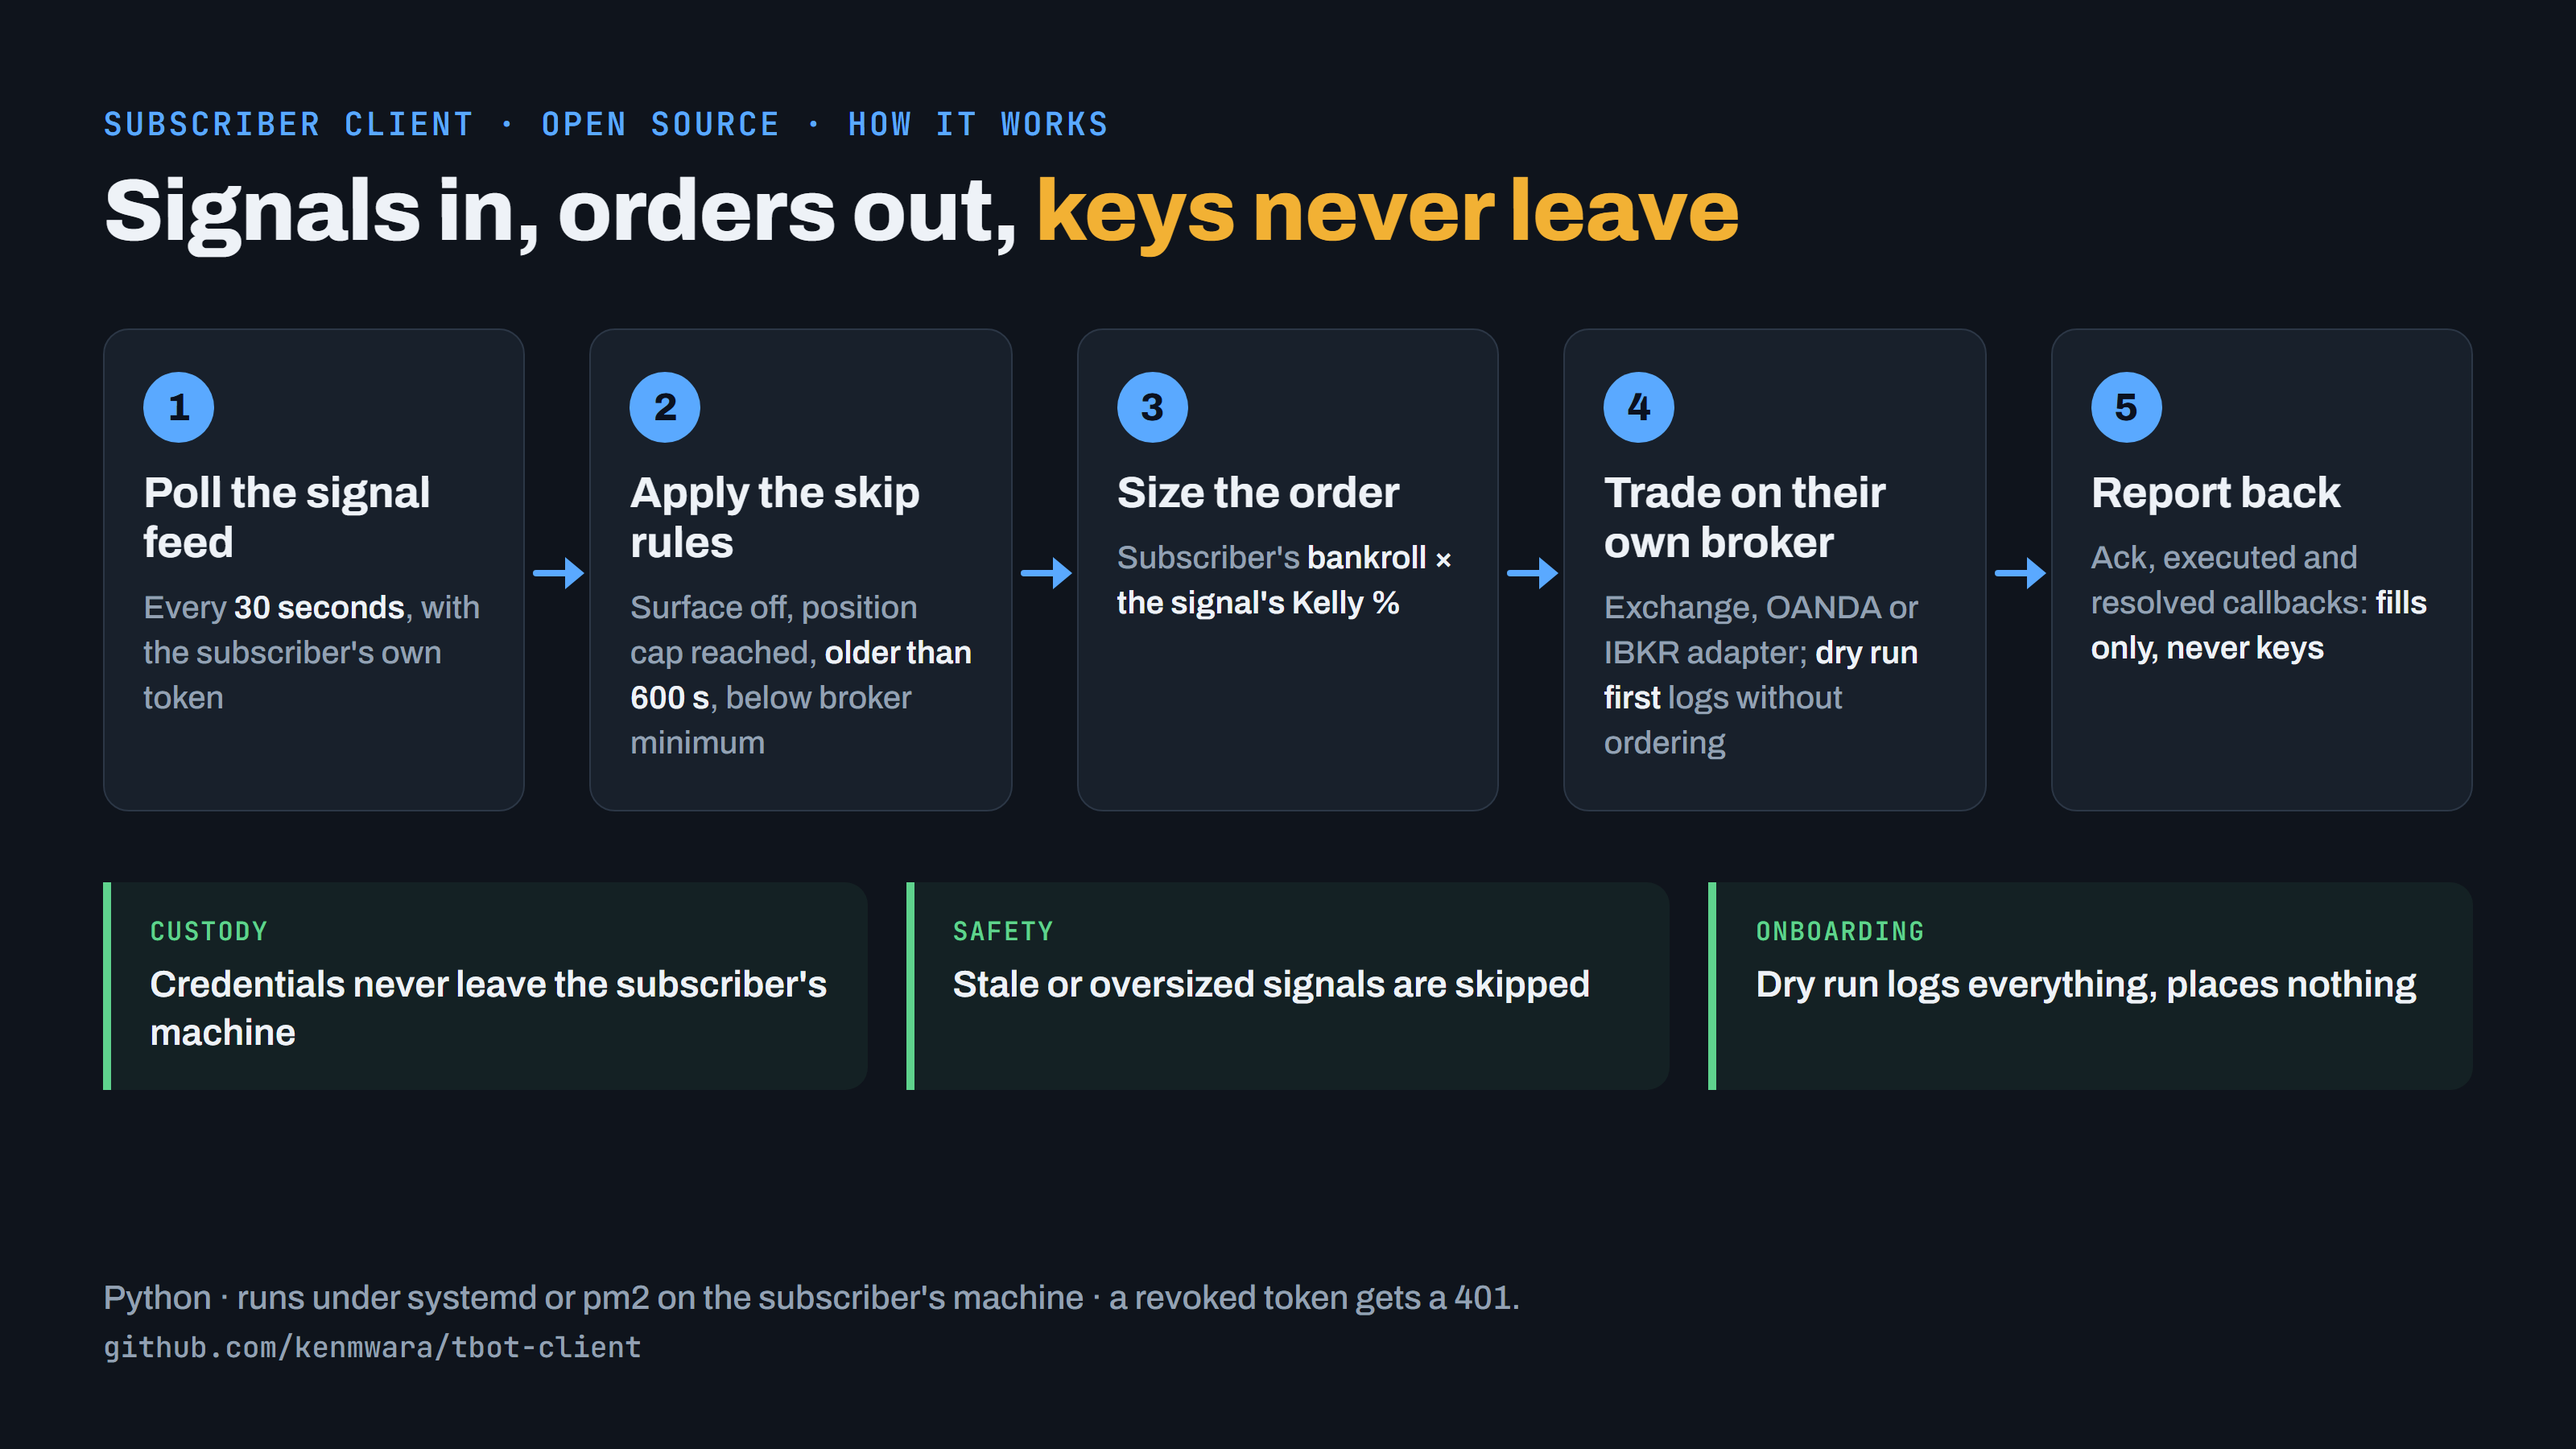
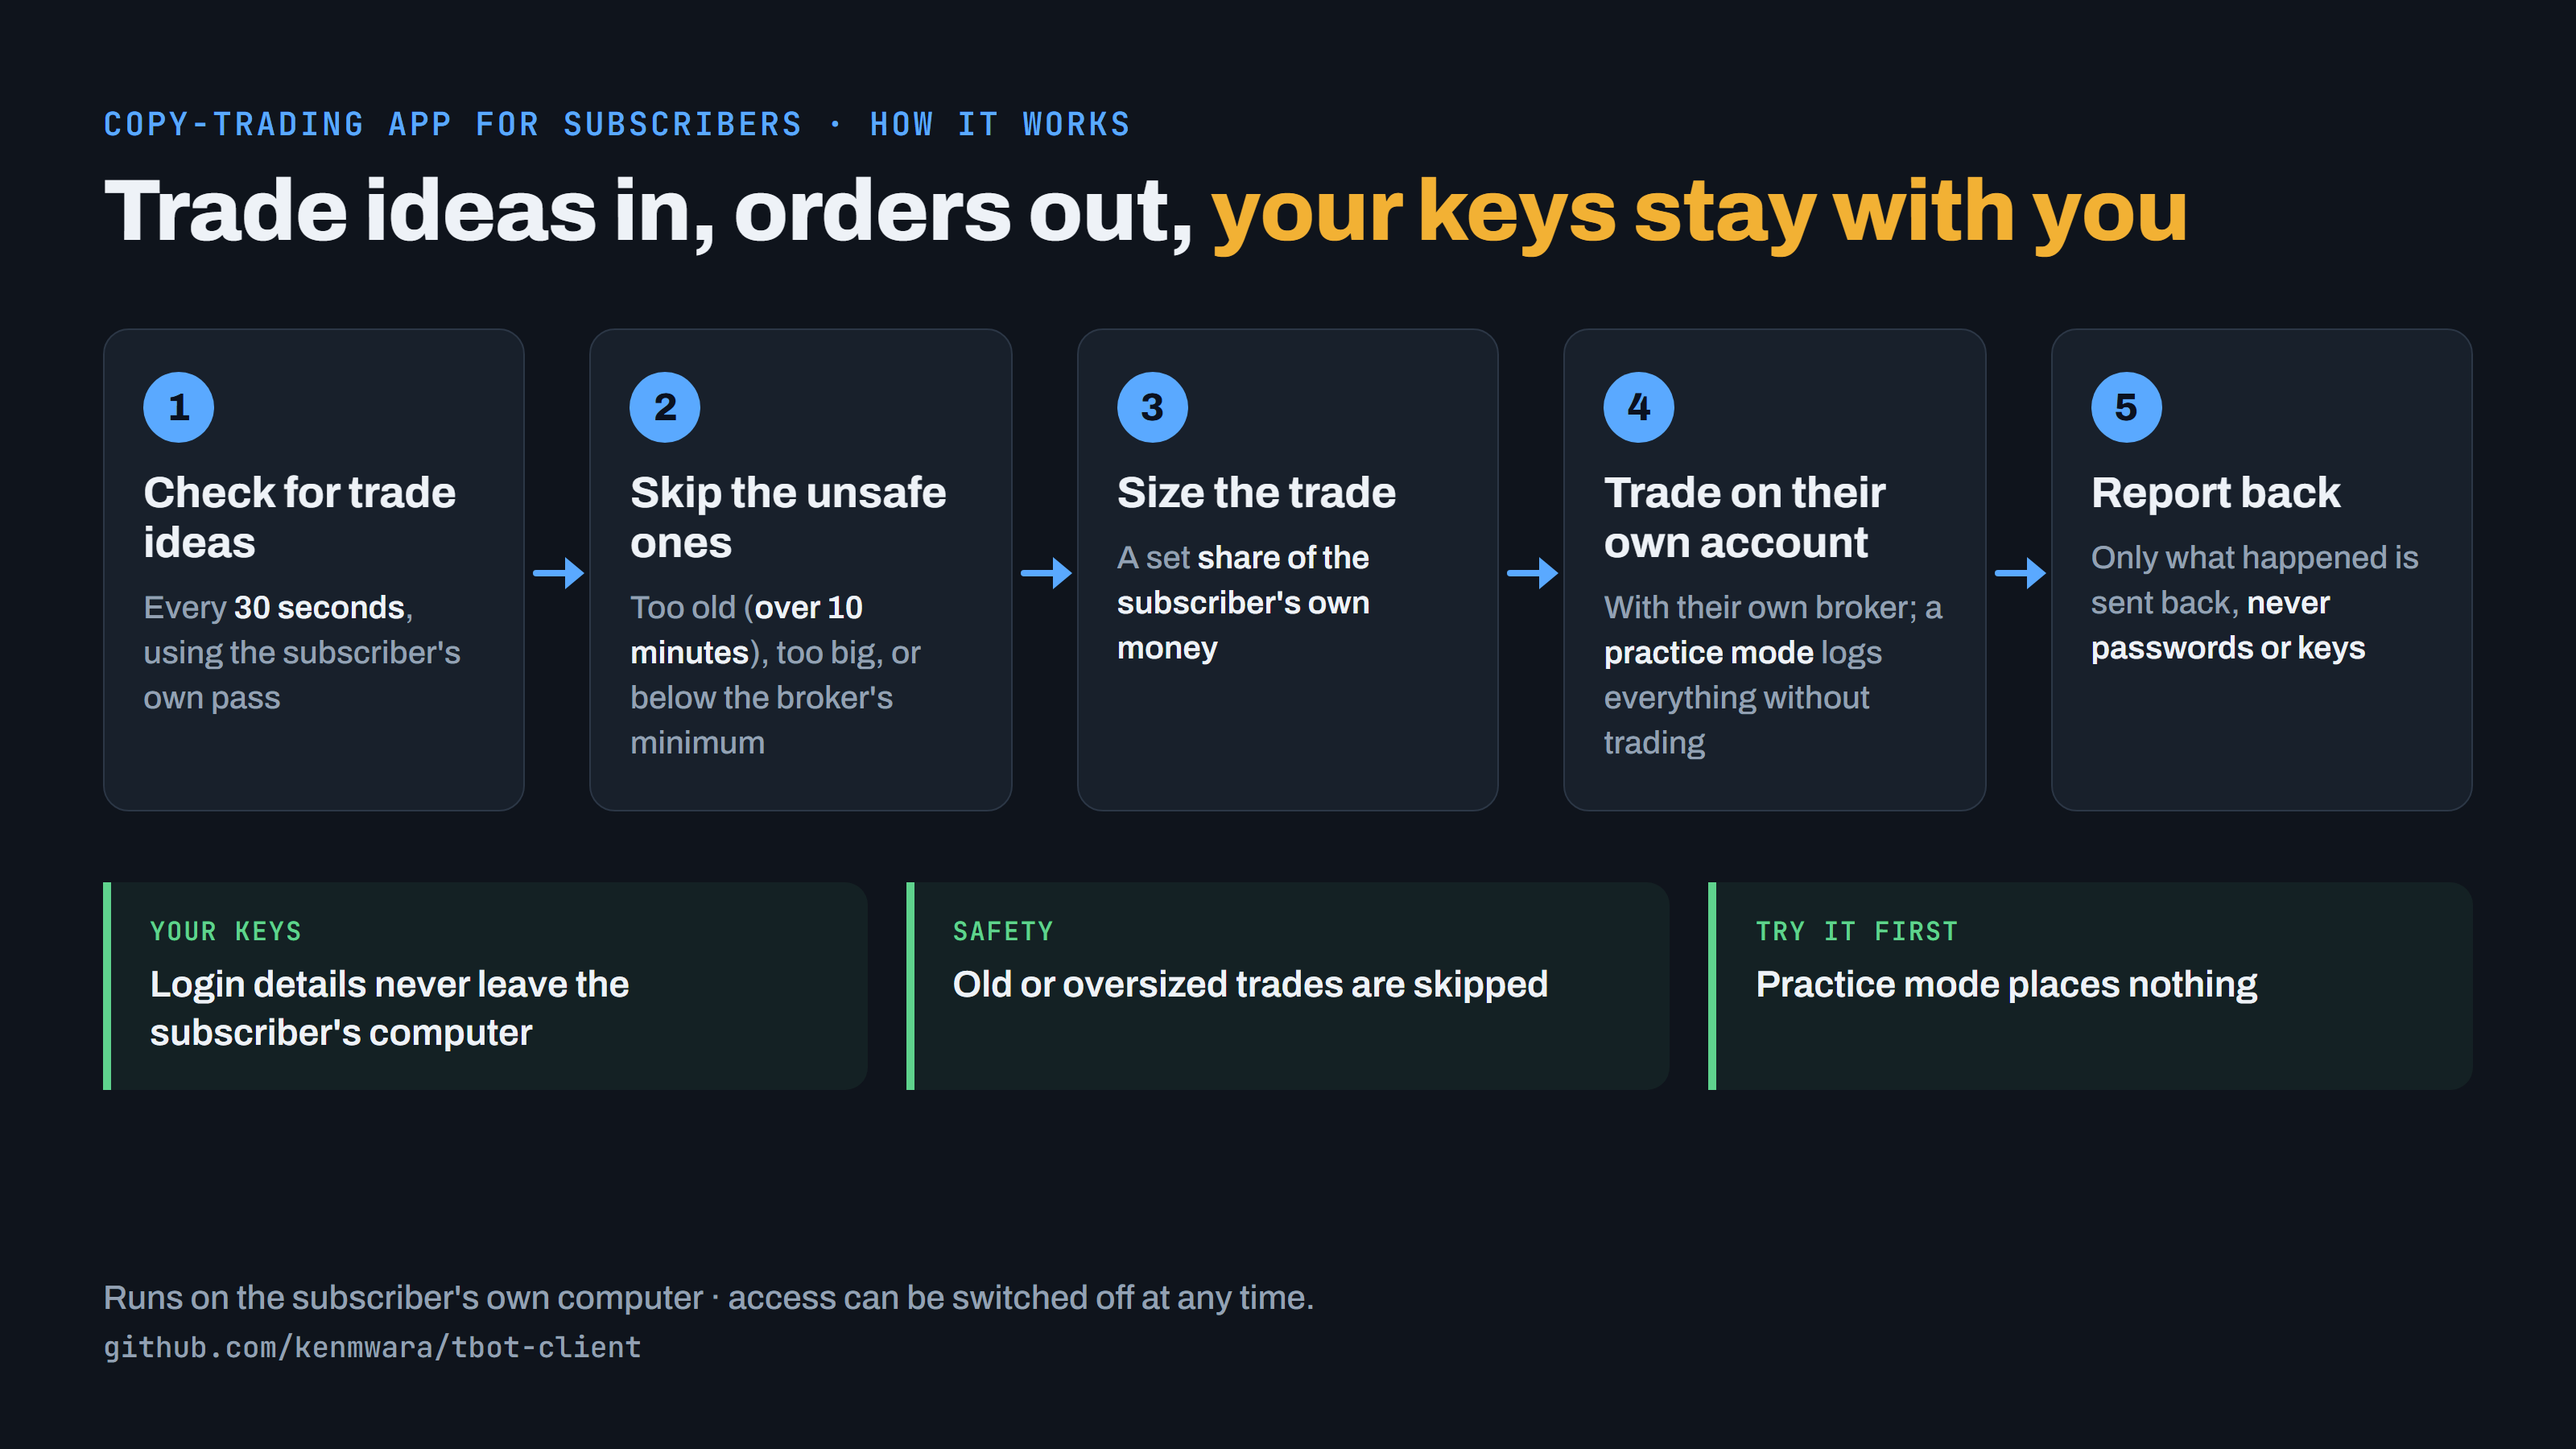
docs: diagrams and scorecards rewritten in plain English

diff --git a/README.md b/README.md
@@ -6,7 +6,7 @@ T BOT operator never touches your funds, never sees your broker credentials, and
 
 ---
 
-<img src="images/flow.png" width="100%" alt="Flow diagram in five steps. 1: Poll the signal feed; Every 30 seconds, with the subscriber's own token. 2: Apply the skip rules; Surface off, position cap reached, older than 600 s, below broker minimum. 3: Size the order; Subscriber's bankroll × the signal's Kelly %. 4: Trade on their own broker; Exchange, OANDA or IBKR adapter; dry run first logs without ordering. 5: Report back; Ack, executed and resolved callbacks: fills only, never keys. Guards: Custody, credentials never leave the subscriber's machine; Safety, stale or oversized signals are skipped; Onboarding, dry run logs everything, places nothing.">
+<img src="images/flow.png" width="100%" alt="How it works, in five steps. 1. Check for trade ideas: Every 30 seconds, using the subscriber's own pass. 2. Skip the unsafe ones: Too old (over 10 minutes), too big, or below the broker's minimum. 3. Size the trade: A set share of the subscriber's own money. 4. Trade on their own account: With their own broker; a practice mode logs everything without trading. 5. Report back: Only what happened is sent back, never passwords or keys. Safeguards: Your keys: Login details never leave the subscriber's computer; Safety: Old or oversized trades are skipped; Try it first: Practice mode places nothing.">
 
 ## What it does
 
